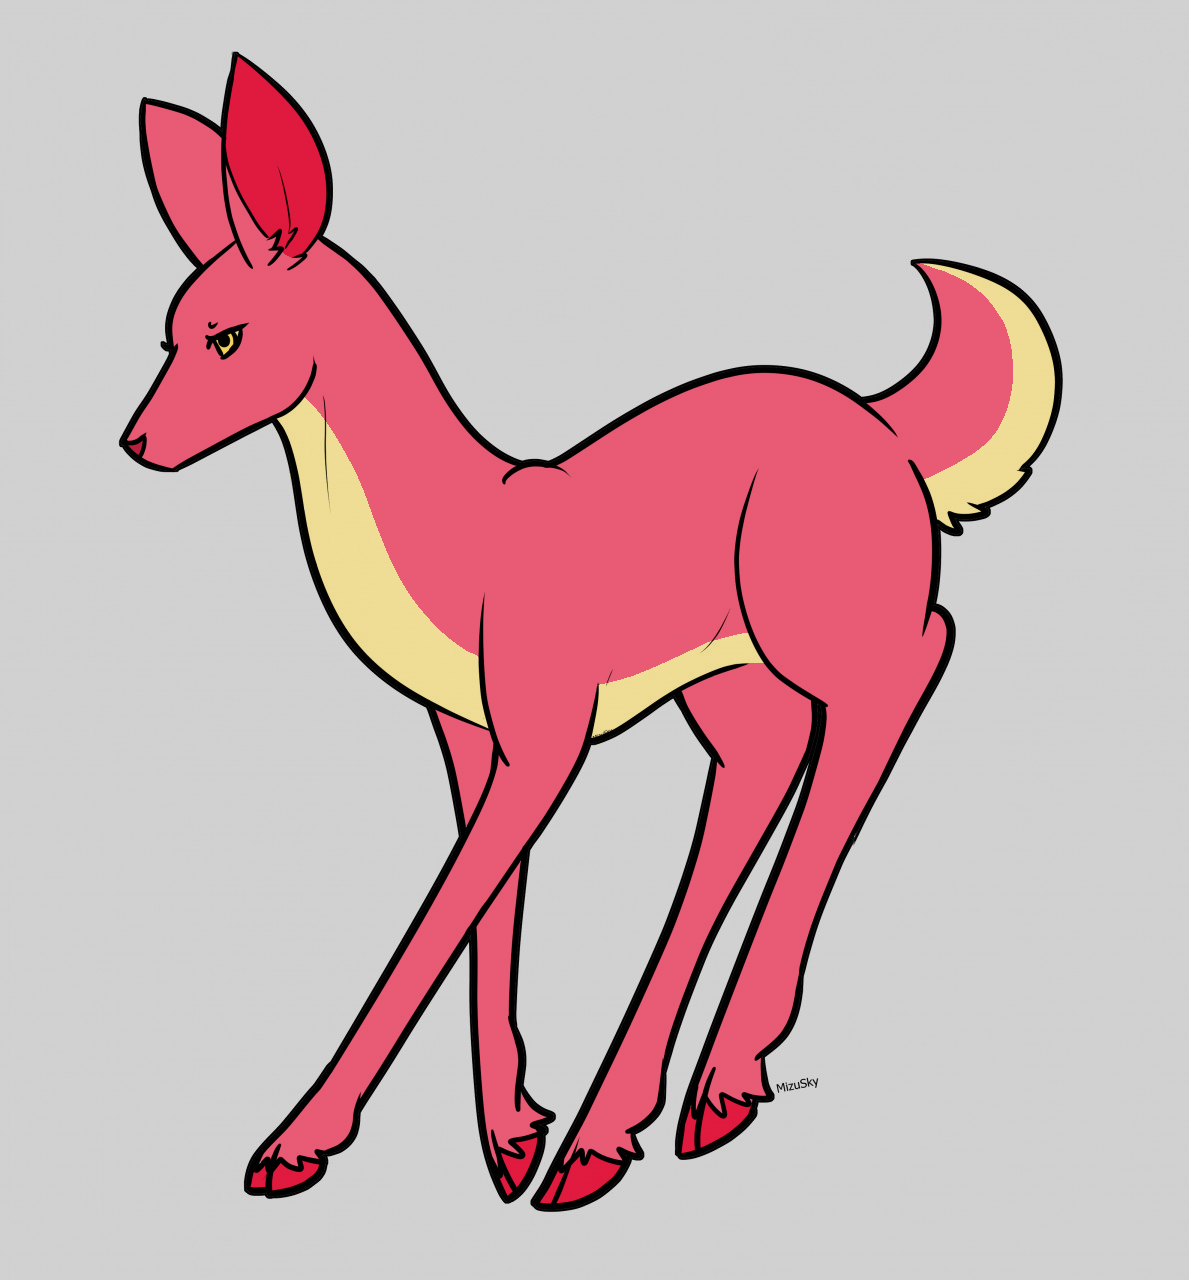
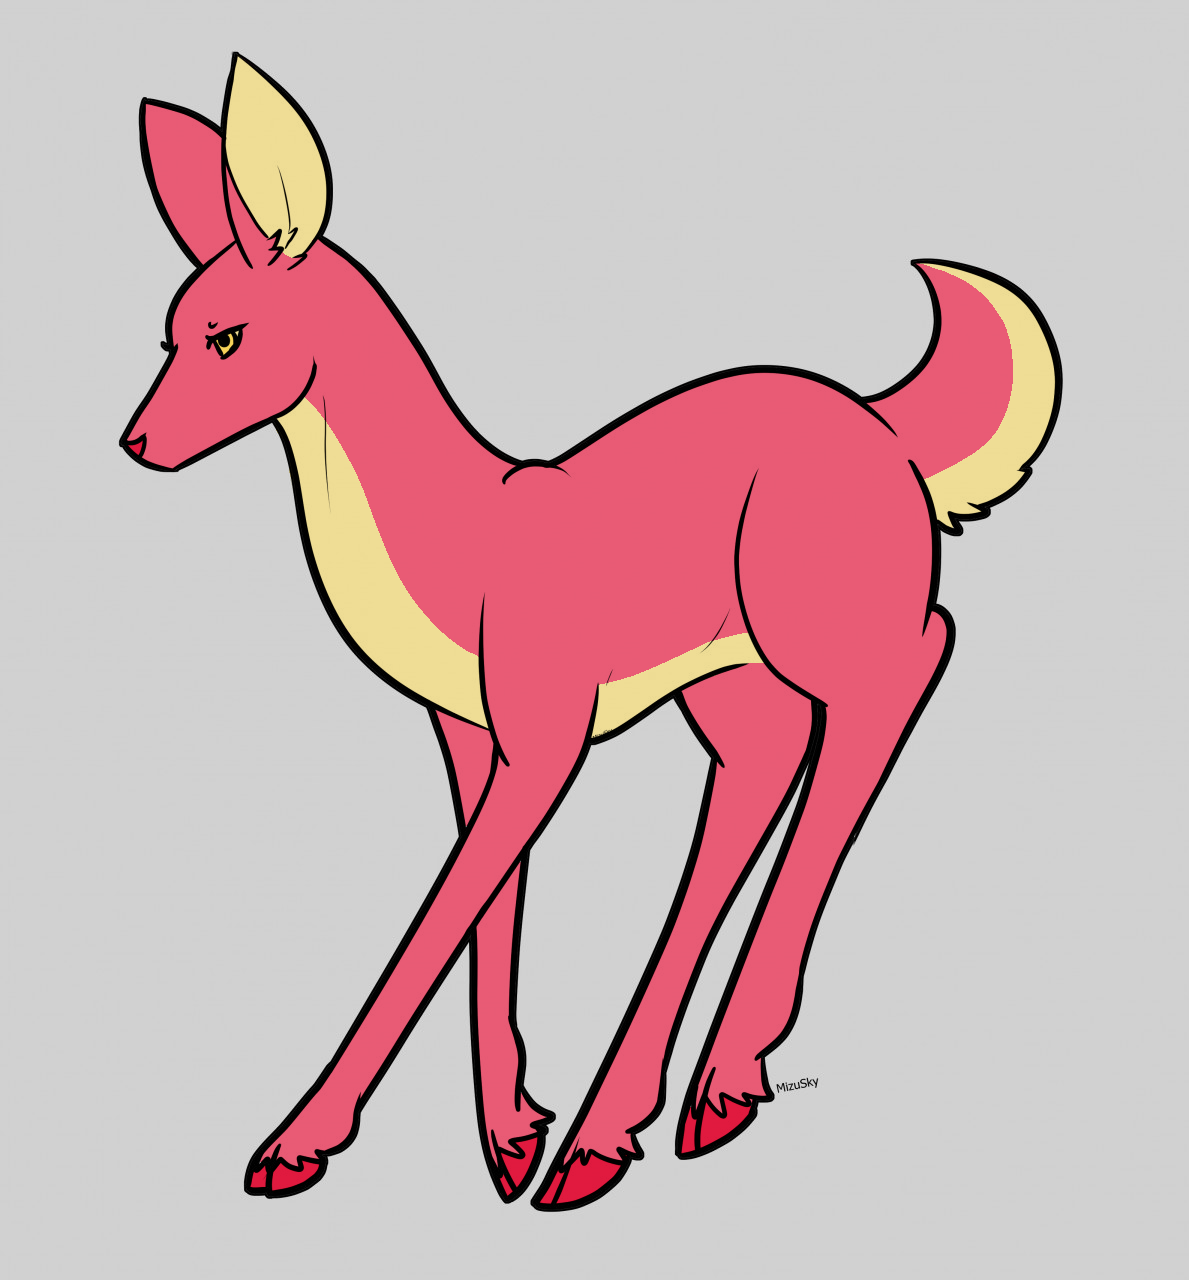
an tweak

Changed region(s): [[0.1867, 0.0312, 0.2801, 0.2188]]

diff --git a/fursonae/index.md b/fursonae/index.md
@@ -170,15 +170,15 @@ legs might be better off just being [rubberhose](https://en.wikipedia.org/wiki/R
 
 probably my first non-cuddlemaxxed character
 
-pink body, very·hot-pink beans and hooves and inside of ears, light-yellow [countershading](https://en.wikipedia.org/wiki/Countershading), yellow eyes
+pink body, very·hot-pink beans and hooves, light-yellow [countershading](https://en.wikipedia.org/wiki/Countershading) and inside of ears, yellow eyes
 probably both anthro and feral forms
 male-ish but no antlers ~~because [noelle deltarune](https://deltarune.fandom.com/wiki/Noelle) stole them~~ (actually because i feel they'd get in the way)
 maybe a skirt? thigh-highs?
 
 no proper canonical picture yet but have a [picrew](https://picrew.me/image_maker/104106) by [oatmeaio](https://linktr.ee/oatmeaio) (hooves instead of paws because pretty):
 
-![pink deer with glasses and yellow eyes winking at the viewer](deer/picrew 104106.png)
+![anthro deer with glasses winking at the viewer](deer/picrew 104106.png)
 
 and a [base](https://www.furaffinity.net/view/42146255/) by [mizusky](https://www.furaffinity.net/user/mizusky/):
 
-![feral deer matching the above description, minus glasses, plus yellow for countershading](deer/furaffinity base 42146255.png)
+![feral deer](deer/furaffinity base 42146255.png)
